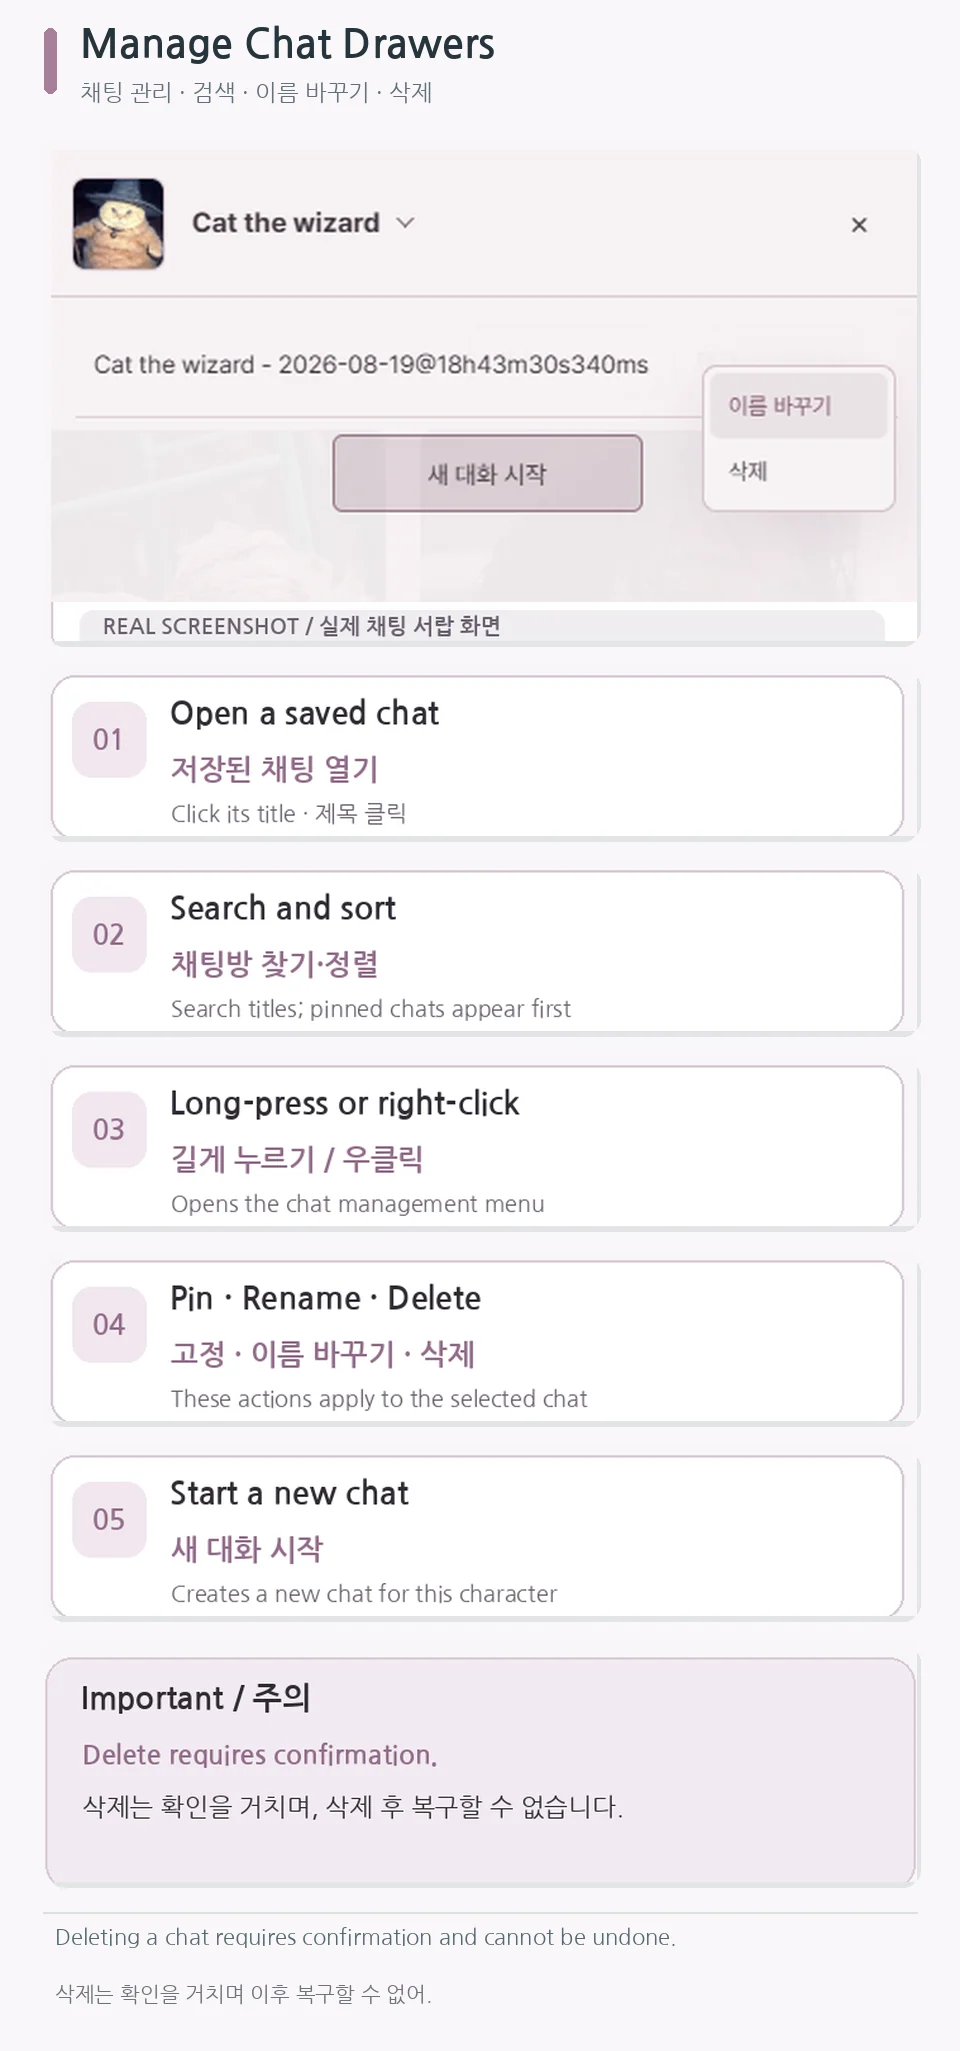
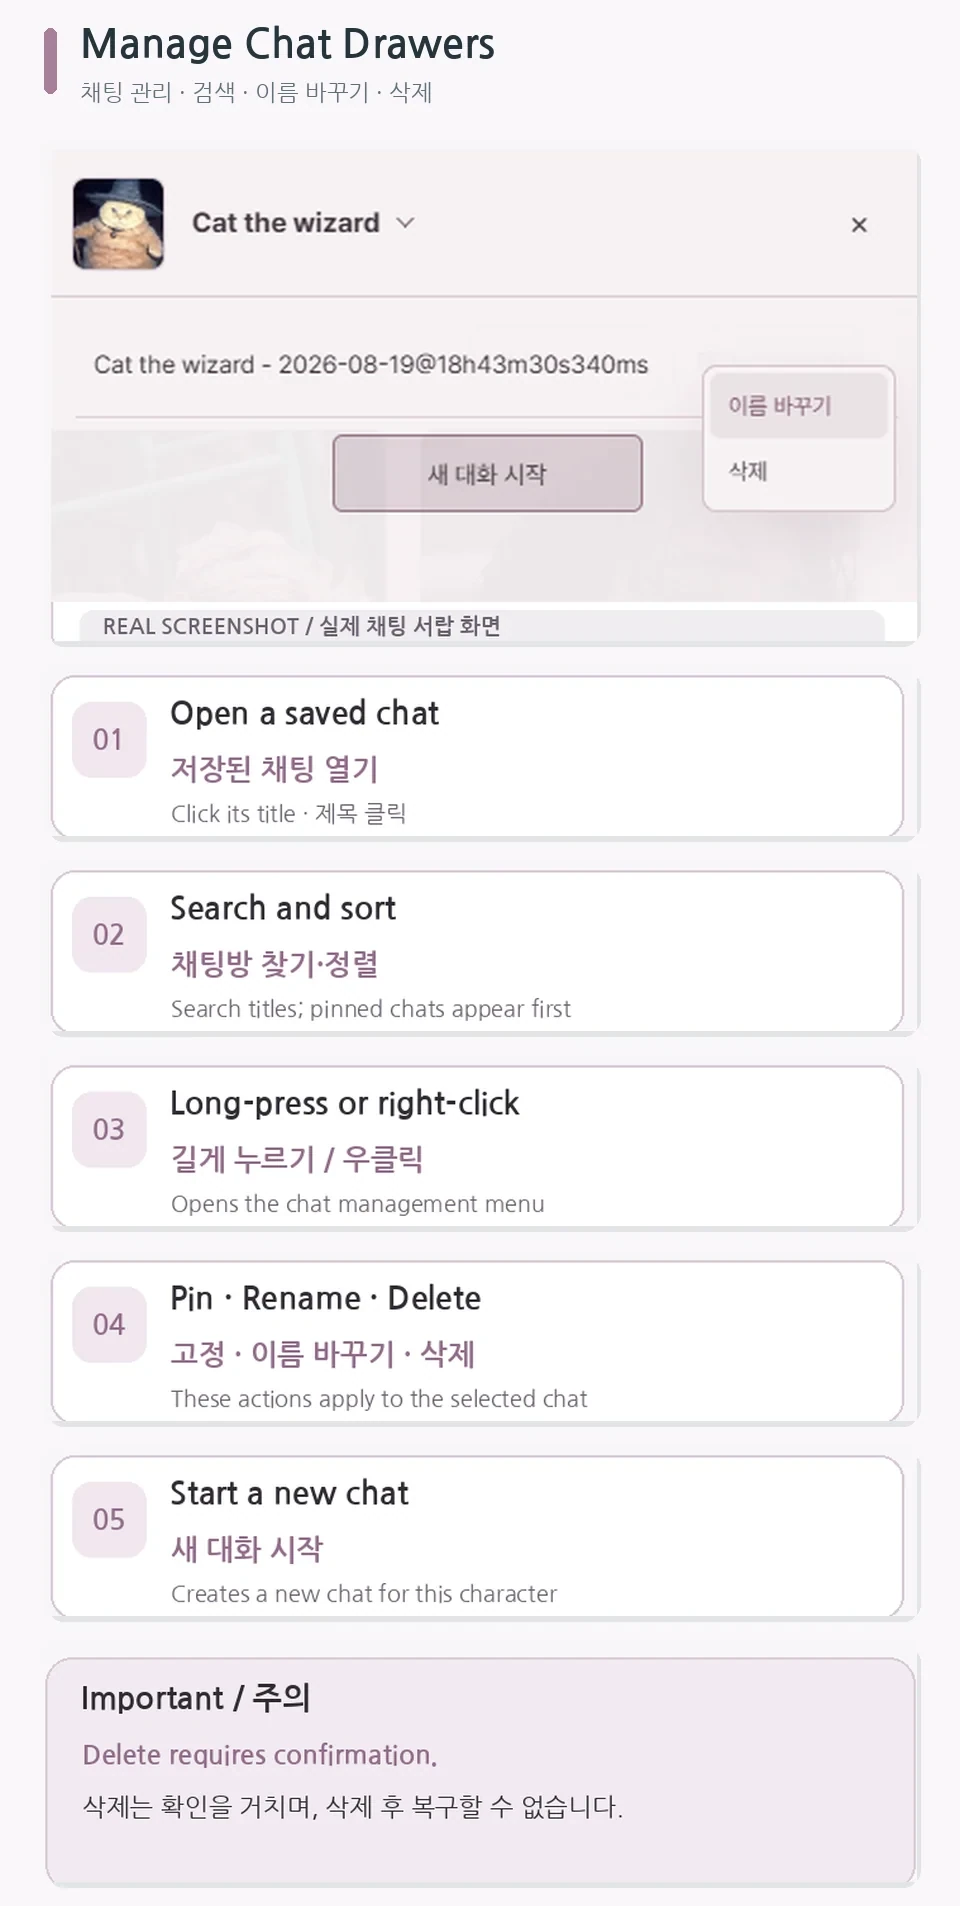
docs: simplify Folio screenshots and remove redundant preview notes

diff --git a/README.md b/README.md
@@ -5,22 +5,11 @@
 It adds a visual character shelf to the SillyTavern welcome screen, where you can find a character first and then open, create, rename, or delete that character's chats. SillyTavern's native welcome shortcuts remain available below the shelf.
 
 
-## 📸 Preview
+## 📸 Screenshots
 
 <p align="center">
   <a href="assets/readme/mobile/folio-preview-mobile.webp"><img src="assets/readme/mobile/folio-preview-mobile.webp" alt="Folio desktop and mobile character shelf preview" width="900" /></a>
 </p>
-
-*The preview shows cropped screenshots of the desktop and mobile shelf. Open the original images below for full detail; the interface may vary by version.*
-
-<details>
-<summary>Full-size screenshots</summary>
-
-- [Desktop character shelf](assets/readme/folio-desktop.png)
-- [Mobile character shelf](assets/readme/folio-mobile.jpeg)
-- [Chat drawer](assets/readme/folio-chat-drawer.png)
-
-</details>
 
 ## 📥 Installation
 
@@ -35,8 +24,6 @@ It adds a visual character shelf to the SillyTavern welcome screen, where you ca
   <a href="assets/readme/mobile/folio-workflow-guide-mobile.webp"><img src="assets/readme/mobile/folio-workflow-guide-mobile.webp" alt="Folio process: welcome shelf, character search, chat drawer, existing or new chat" width="860" /></a>
 </p>
 
-*Illustrated workflow; this is not a live screenshot.*
-
 **Open the welcome screen → find a character → click the portrait or name → choose an existing chat or start a new one**
 
 The welcome shelf is built from the character list SillyTavern has already loaded. A character's chat filenames are requested only after you explicitly open that character's chat drawer.
@@ -48,8 +35,6 @@ Each character card shows the portrait, name, assigned SillyTavern tags, and an 
 <p align="center">
   <a href="assets/readme/mobile/folio-shelf-controls-guide-mobile.webp"><img src="assets/readme/mobile/folio-shelf-controls-guide-mobile.webp" alt="Annotated actual character shelf highlighting sorting, search, tag filter, pin, open chat drawer, and notes" width="860" /></a>
 </p>
-
-*Annotated real screenshot. Labels explain the current controls; colors and arrangement can vary with the SillyTavern theme.*
 
 | Control or action | What it does |
 |---|---|
@@ -73,8 +58,6 @@ Clicking a character opens a drawer containing that character's saved chat filen
   <a href="assets/readme/mobile/folio-chat-drawer-guide-mobile.webp"><img src="assets/readme/mobile/folio-chat-drawer-guide-mobile.webp" alt="Folio chat drawer screenshot with guidance for chat searching, pinning, renaming, deleting, and starting chats" width="860" /></a>
 </p>
 
-*The screenshot is from an earlier version. The actions described beside it are based on the current extension.*
-
 | Control or action | What it does |
 |---|---|
 | **Character name / sort menu** | Sorts chat titles ascending or descending, with pinned chats always at the top. |
@@ -94,8 +77,6 @@ Configure Folio under **Extensions → Folio**.
 <p align="center">
   <a href="assets/readme/mobile/folio-layout-settings-guide-mobile.webp"><img src="assets/readme/mobile/folio-layout-settings-guide-mobile.webp" alt="Folio layout settings showing desktop and mobile grid, row and column counts, portrait ratio and visual options" width="860" /></a>
 </p>
-
-*This diagram illustrates adjustable layouts, not a live settings screenshot. Both desktop and mobile default to 3 columns × 4 rows (12 portraits).* 
 
 | Setting | Options and behavior |
 |---|---|
@@ -144,22 +125,11 @@ Opening a selected chat is handed back to SillyTavern's normal chat-opening flow
 SillyTavern 시작 화면에 캐릭터 선반을 추가해, 먼저 캐릭터를 찾고 그 캐릭터의 채팅을 열거나 새로 만들고 이름을 바꾸거나 삭제할 수 있습니다. SillyTavern의 기존 시작 화면 단축 버튼도 선반 아래에 그대로 표시됩니다.
 
 
-## 📸 미리보기
+## 📸 화면
 
 <p align="center">
   <a href="assets/readme/mobile/folio-preview-mobile.webp"><img src="assets/readme/mobile/folio-preview-mobile.webp" alt="폴리오 PC·모바일 캐릭터 선반 미리보기" width="900" /></a>
 </p>
-
-*PC·모바일 화면을 일부 잘라 크기를 맞춘 미리보기입니다. 전체 화면은 아래 원본 사진에서 볼 수 있으며, 버전에 따라 배치가 다를 수 있습니다.*
-
-<details>
-<summary>원본 화면 보기</summary>
-
-- [PC 캐릭터 선반](assets/readme/folio-desktop.png)
-- [모바일 캐릭터 선반](assets/readme/folio-mobile.jpeg)
-- [채팅 서랍](assets/readme/folio-chat-drawer.png)
-
-</details>
 
 ## 📥 설치 방법
 
@@ -174,8 +144,6 @@ SillyTavern 시작 화면에 캐릭터 선반을 추가해, 먼저 캐릭터를 
   <a href="assets/readme/mobile/folio-workflow-guide-mobile.webp"><img src="assets/readme/mobile/folio-workflow-guide-mobile.webp" alt="폴리오 사용 흐름: 캐릭터 선반, 찾기, 채팅 서랍, 기존 채팅 또는 새 채팅" width="860" /></a>
 </p>
 
-*실제 화면 캡처가 아닌 기능 안내용 구성도입니다.*
-
 **시작 화면 열기 → 캐릭터 찾기 → 초상화나 이름 누르기 → 기존 채팅을 열거나 새 대화 시작하기**
 
 시작 화면의 캐릭터 선반은 SillyTavern이 이미 불러온 캐릭터 목록으로 만듭니다. 캐릭터의 채팅 파일명은 사용자가 해당 캐릭터의 채팅 서랍을 직접 열었을 때만 요청합니다.
@@ -187,8 +155,6 @@ SillyTavern 시작 화면에 캐릭터 선반을 추가해, 먼저 캐릭터를 
 <p align="center">
   <a href="assets/readme/mobile/folio-shelf-controls-guide-mobile.webp"><img src="assets/readme/mobile/folio-shelf-controls-guide-mobile.webp" alt="실제 캐릭터 선반에 정렬·검색·태그·고정·채팅 서랍·메모 위치를 표시한 안내 이미지" width="860" /></a>
 </p>
-
-*실제 선반 화면에 조작 위치를 표시한 이미지입니다. 색상과 배치는 SillyTavern 테마에 따라 달라질 수 있습니다.*
 
 | 조작 | 기능 |
 |---|---|
@@ -212,8 +178,6 @@ SillyTavern 시작 화면에 캐릭터 선반을 추가해, 먼저 캐릭터를 
   <a href="assets/readme/mobile/folio-chat-drawer-guide-mobile.webp"><img src="assets/readme/mobile/folio-chat-drawer-guide-mobile.webp" alt="실제 폴리오 채팅 서랍과 저장된 채팅 검색·고정·이름 바꾸기·삭제·새 대화 시작 안내" width="860" /></a>
 </p>
 
-*예전 버전의 실제 채팅 서랍 화면을 사용했으며, 옆의 기능 설명은 현재 확장 기준입니다.*
-
 | 조작 | 기능 |
 |---|---|
 | **캐릭터 이름 / 정렬 메뉴** | 채팅 제목을 오름차순 또는 내림차순으로 정렬하고, 고정한 채팅방은 맨 위에 표시합니다. |
@@ -233,8 +197,6 @@ SillyTavern 시작 화면에 캐릭터 선반을 추가해, 먼저 캐릭터를 
 <p align="center">
   <a href="assets/readme/mobile/folio-layout-settings-guide-mobile.webp"><img src="assets/readme/mobile/folio-layout-settings-guide-mobile.webp" alt="폴리오 PC·모바일 가로 수, 세로 줄 수, 초상화 비율, 글씨 크기와 모서리 설정 안내" width="860" /></a>
 </p>
-
-*설정값을 보여주는 구성도이며 실제 설정 화면 캡처는 아닙니다. PC와 모바일의 기본값은 각각 3열 × 4줄, 12개입니다.*
 
 | 설정 | 선택 항목과 기능 |
 |---|---|
